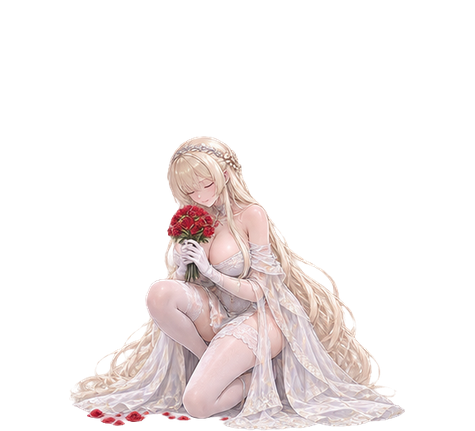
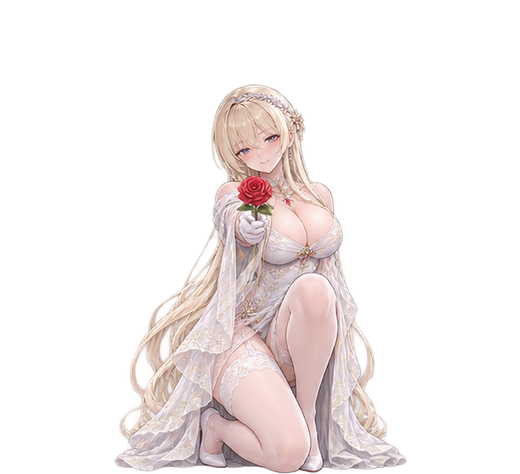
Rebuild wedding full figure from the updated pose set
The wedding folder was reorganised with a larger set of individual pose
images. Rebuild the full-figure frames from them: one frame per distinct
pose (15 in all), drawn from every group in the folder, each cropped,
de-scrapped, feathered and scaled to an even head size on a shared canvas.

Changed region(s): [[0.1474, 0.1508, 0.8547, 1.0]]

diff --git a/renderer/pet.js b/renderer/pet.js
@@ -75,11 +75,35 @@ let lastPoseChange = 0;
 let revertAfterLine = false; // the pose's time ran out mid-line; go back to neutral when she finishes
 const isFull = () => !!cfg && cfg.form.endsWith('/full');
 
+// The full figure does not stand in one pose: every so often she moves on to another, going
+// through all of them in a shuffled order. Never mid-line, mid-reaction or while carried.
+const SLEEP_POSES = ['sleepy', 'rest']; // kept for when she is actually asleep
+let restFrame = null; // the pose she is resting in now (null: the neutral one)
+let poseQueue = [];
+let nextPoseAt = 0;
+
+function rotatePose() {
+  if (!isFull() || !cfg.rotate || Date.now() < nextPoseAt) return;
+  if (talking || pressed || tempFrame || (state !== 'idle' && state !== 'walk')) return;
+  if (!poseQueue.length) {
+    const moods = cfg.moods || {};
+    poseQueue = [null, ...Object.keys(moods).filter((n) => !SLEEP_POSES.includes(n)).map((n) => moods[n])];
+    for (let i = poseQueue.length - 1; i > 0; i--) {
+      const j = Math.floor(Math.random() * (i + 1));
+      [poseQueue[i], poseQueue[j]] = [poseQueue[j], poseQueue[i]];
+    }
+    if (poseQueue.length > 1 && poseQueue[0] === restFrame) poseQueue.push(poseQueue.shift());
+  }
+  restFrame = poseQueue.shift();
+  nextPoseAt = Date.now() + cfg.rotate;
+  refreshFace();
+}
+
 function refreshFace(force) {
   if (!cfg) return;
   if (!force && isFull() && talking) return; // hold the pose until the line is over
   // what is happening to her right now (asleep, carried) outranks a leftover click expression
-  const src = frameFor(STATE_MOODS[state]) || tempFrame || cfg.src;
+  const src = frameFor(STATE_MOODS[state]) || tempFrame || restFrame || cfg.src;
   if (src === shownSrc) return;
   shownSrc = src;
   spriteEl.src = src;
@@ -389,6 +413,9 @@ api.on('config', async (c) => {
   if (!voiceOn) stopVoice();
   petEl.classList.toggle('card', !!c.card);
   tempFrame = null;
+  restFrame = null;
+  poseQueue = [];
+  nextPoseAt = Date.now() + (c.rotate || 0);
   frameMaps = new Map();
   clearTimeout(moodTimer);
   // decode the expression frames up front so the first swap does not flicker
@@ -568,10 +595,11 @@ window.addEventListener('contextmenu', (e) => {
 });
 
 setInterval(() => {
+  rotatePose();
   if (state !== 'idle' || pressed || Date.now() < nextFidget) return;
   const f = FIDGETS[Math.floor(Math.random() * FIDGETS.length)];
   oneShot(f.anim, f.ms);
-  setMood(f.mood, f.ms + 1300);
+  if (!isFull()) setMood(f.mood, f.ms + 1300); // the full figure changes pose on its own schedule
   nextFidget = Date.now() + 5000 + Math.random() * 8000;
 }, 1000);
 

diff --git a/main.js b/main.js
@@ -233,6 +233,7 @@ function applyForm(keepAnchor) {
     voice: settings.voice,
     lines: loadVoiced(),
     moods: loadMoods(),
+    rotate: Number(process.env.PET_ROTATE_MS) || 60000, // full figure: time in each pose
   });
   send('state', { state, dir, face, floating });
 }
